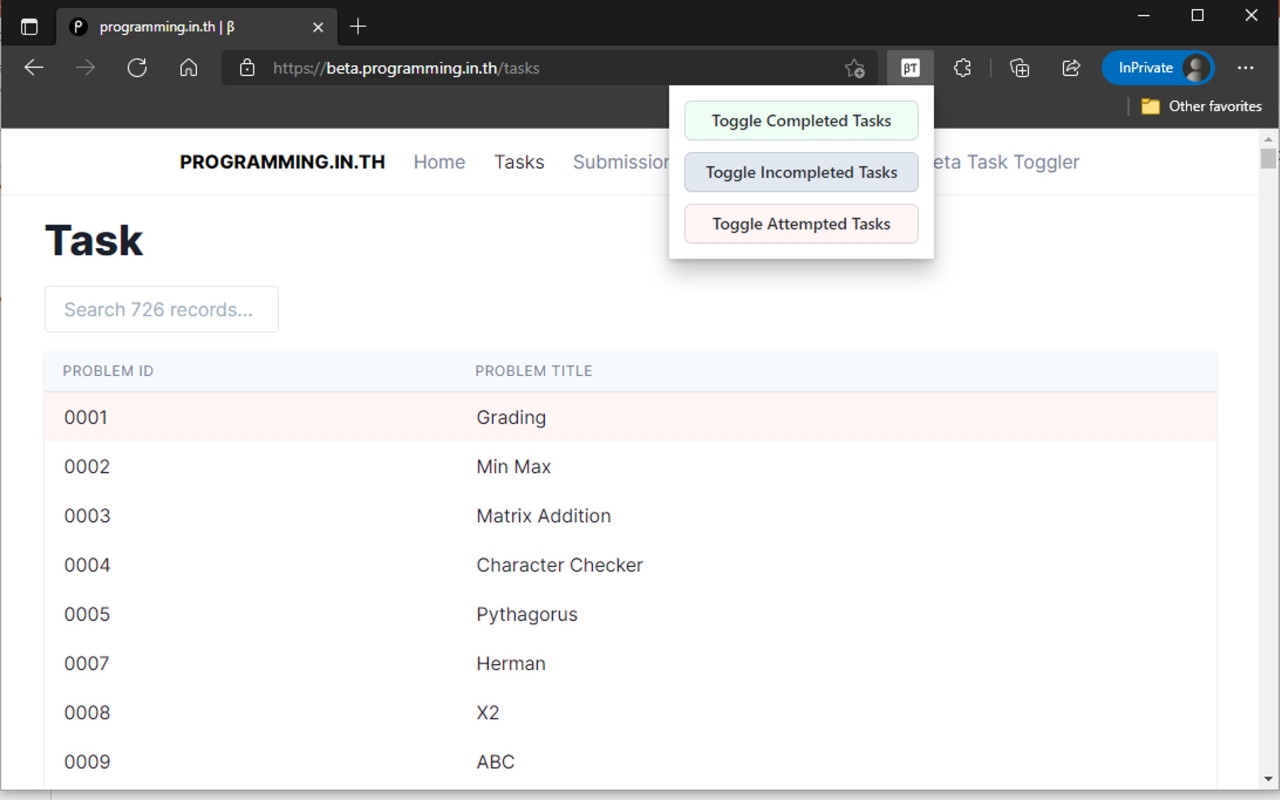
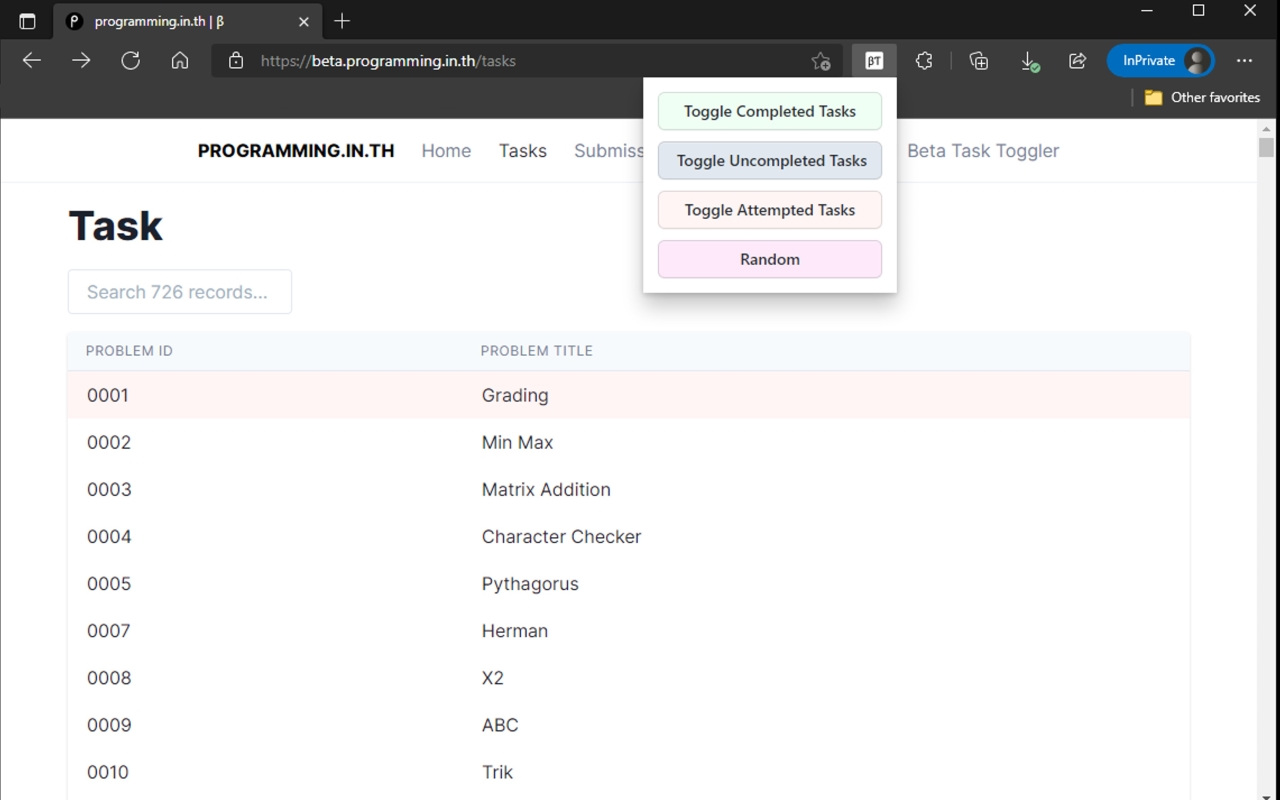
update preview imgs

Changed region(s): [[0.0, 0.0, 1.0, 0.4062], [0.0, 0.25, 1.0, 1.0]]

diff --git a/src/popup.js b/src/popup.js
@@ -1,5 +1,6 @@
 let toggleCompleteButton = document.getElementById("toggleComplete");
 toggleCompleteButton.innerHTML = `Toggle Completed Tasks`;
+toggleCompleteButton.title = `Toggle Completed Tasks`;
 
 toggleCompleteButton.addEventListener("click", async () => {
   let [tab] = await chrome.tabs.query({ active: true, currentWindow: true });
@@ -12,6 +13,7 @@ toggleCompleteButton.addEventListener("click", async () => {
 
 let toggleIncompleteButton = document.getElementById("toggleIncomplete");
 toggleIncompleteButton.innerHTML = `Toggle Uncompleted Tasks`;
+toggleIncompleteButton.title = `Toggle Uncompleted Tasks`;
 
 toggleIncompleteButton.addEventListener("click", async () => {
   let [tab] = await chrome.tabs.query({ active: true, currentWindow: true });
@@ -24,6 +26,7 @@ toggleIncompleteButton.addEventListener("click", async () => {
 
 let toggleAttemptButton = document.getElementById("toggleAttempt");
 toggleAttemptButton.innerHTML = `Toggle Attempted Tasks`;
+toggleAttemptButton.title = `Toggle Attempted Tasks`;
 
 toggleAttemptButton.addEventListener("click", async () => {
   let [tab] = await chrome.tabs.query({ active: true, currentWindow: true });
@@ -36,6 +39,7 @@ toggleAttemptButton.addEventListener("click", async () => {
 
 let randomIncompleteButton = document.getElementById("randomIncomplete");
 randomIncompleteButton.innerHTML = `Random`;
+randomIncompleteButton.title = `Random`;
 
 randomIncompleteButton.addEventListener("click", async () => {
   let [tab] = await chrome.tabs.query({ active: true, currentWindow: true });

diff --git a/README.md b/README.md
@@ -6,7 +6,6 @@ This extension helps you to hide/show tasks on https://beta.programming.in.th/.
 ![](./previews/screenshot_1.jpg)
 ![](./previews/screenshot_2.jpg)
 ![](./previews/screenshot_3.jpg)
-![](./previews/screenshot_4.jpg)
 
 ## Installation
 
@@ -19,3 +18,7 @@ This extension is not published yet, you can install it by following these steps
    - Alternatively, open this page by clicking on the Chrome menu, hovering over More Tools then selecting Extensions
 2. Enable Developer Mode by clicking the toggle switch next to Developer mode.
 3. Click the `Load unpacked` button and select the extension directory.
+
+## Contributions
+
+- `Random` from
